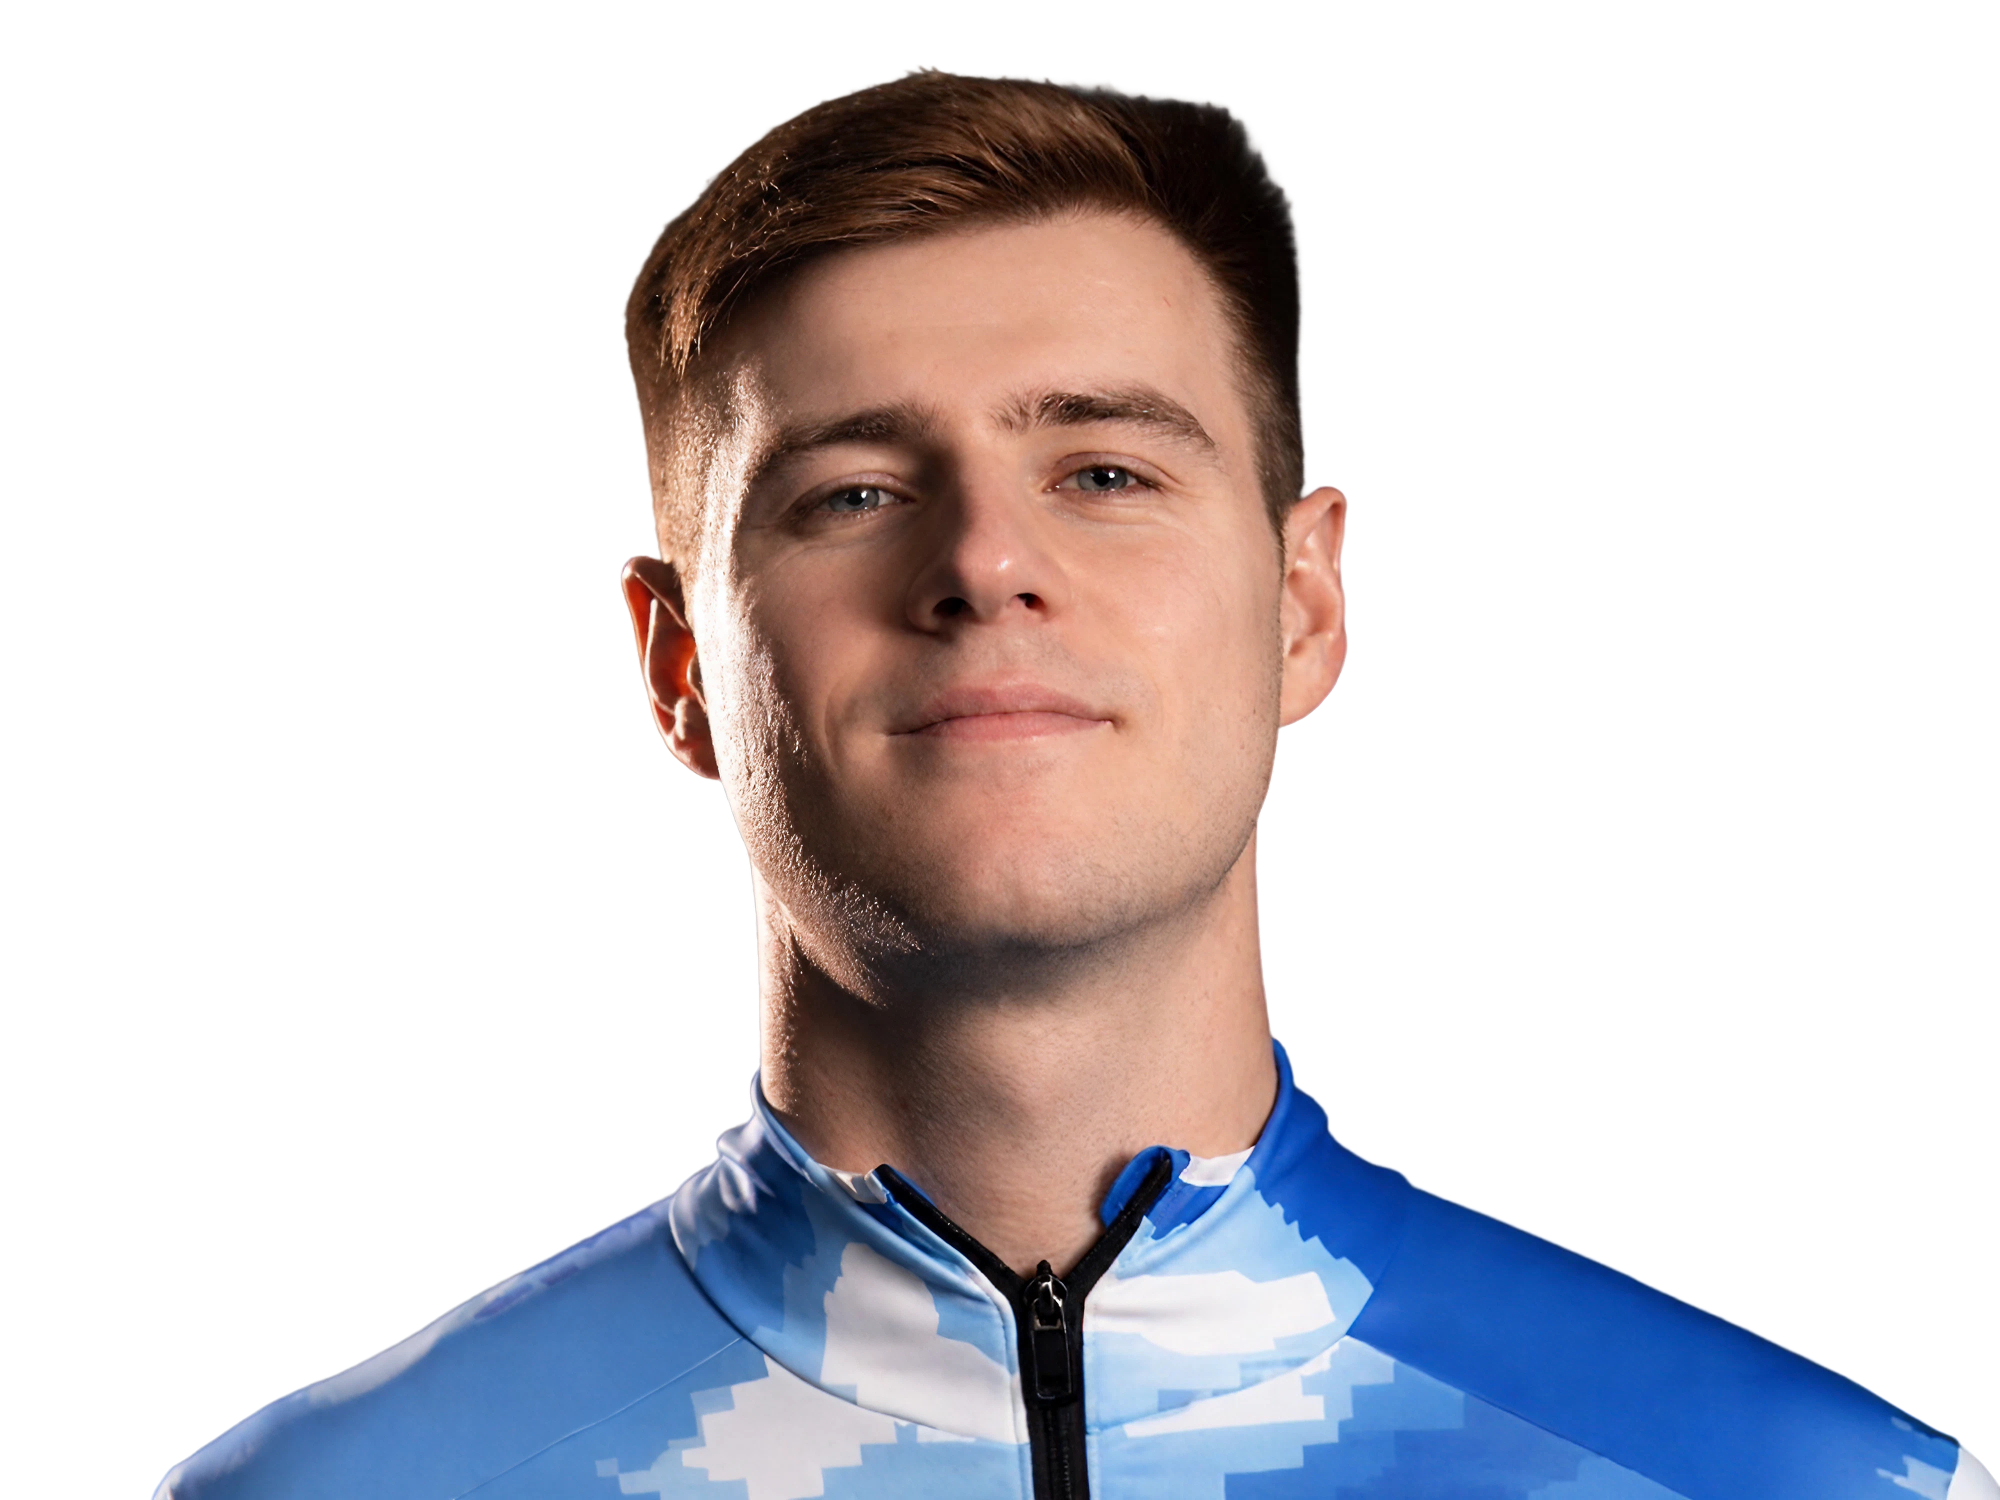
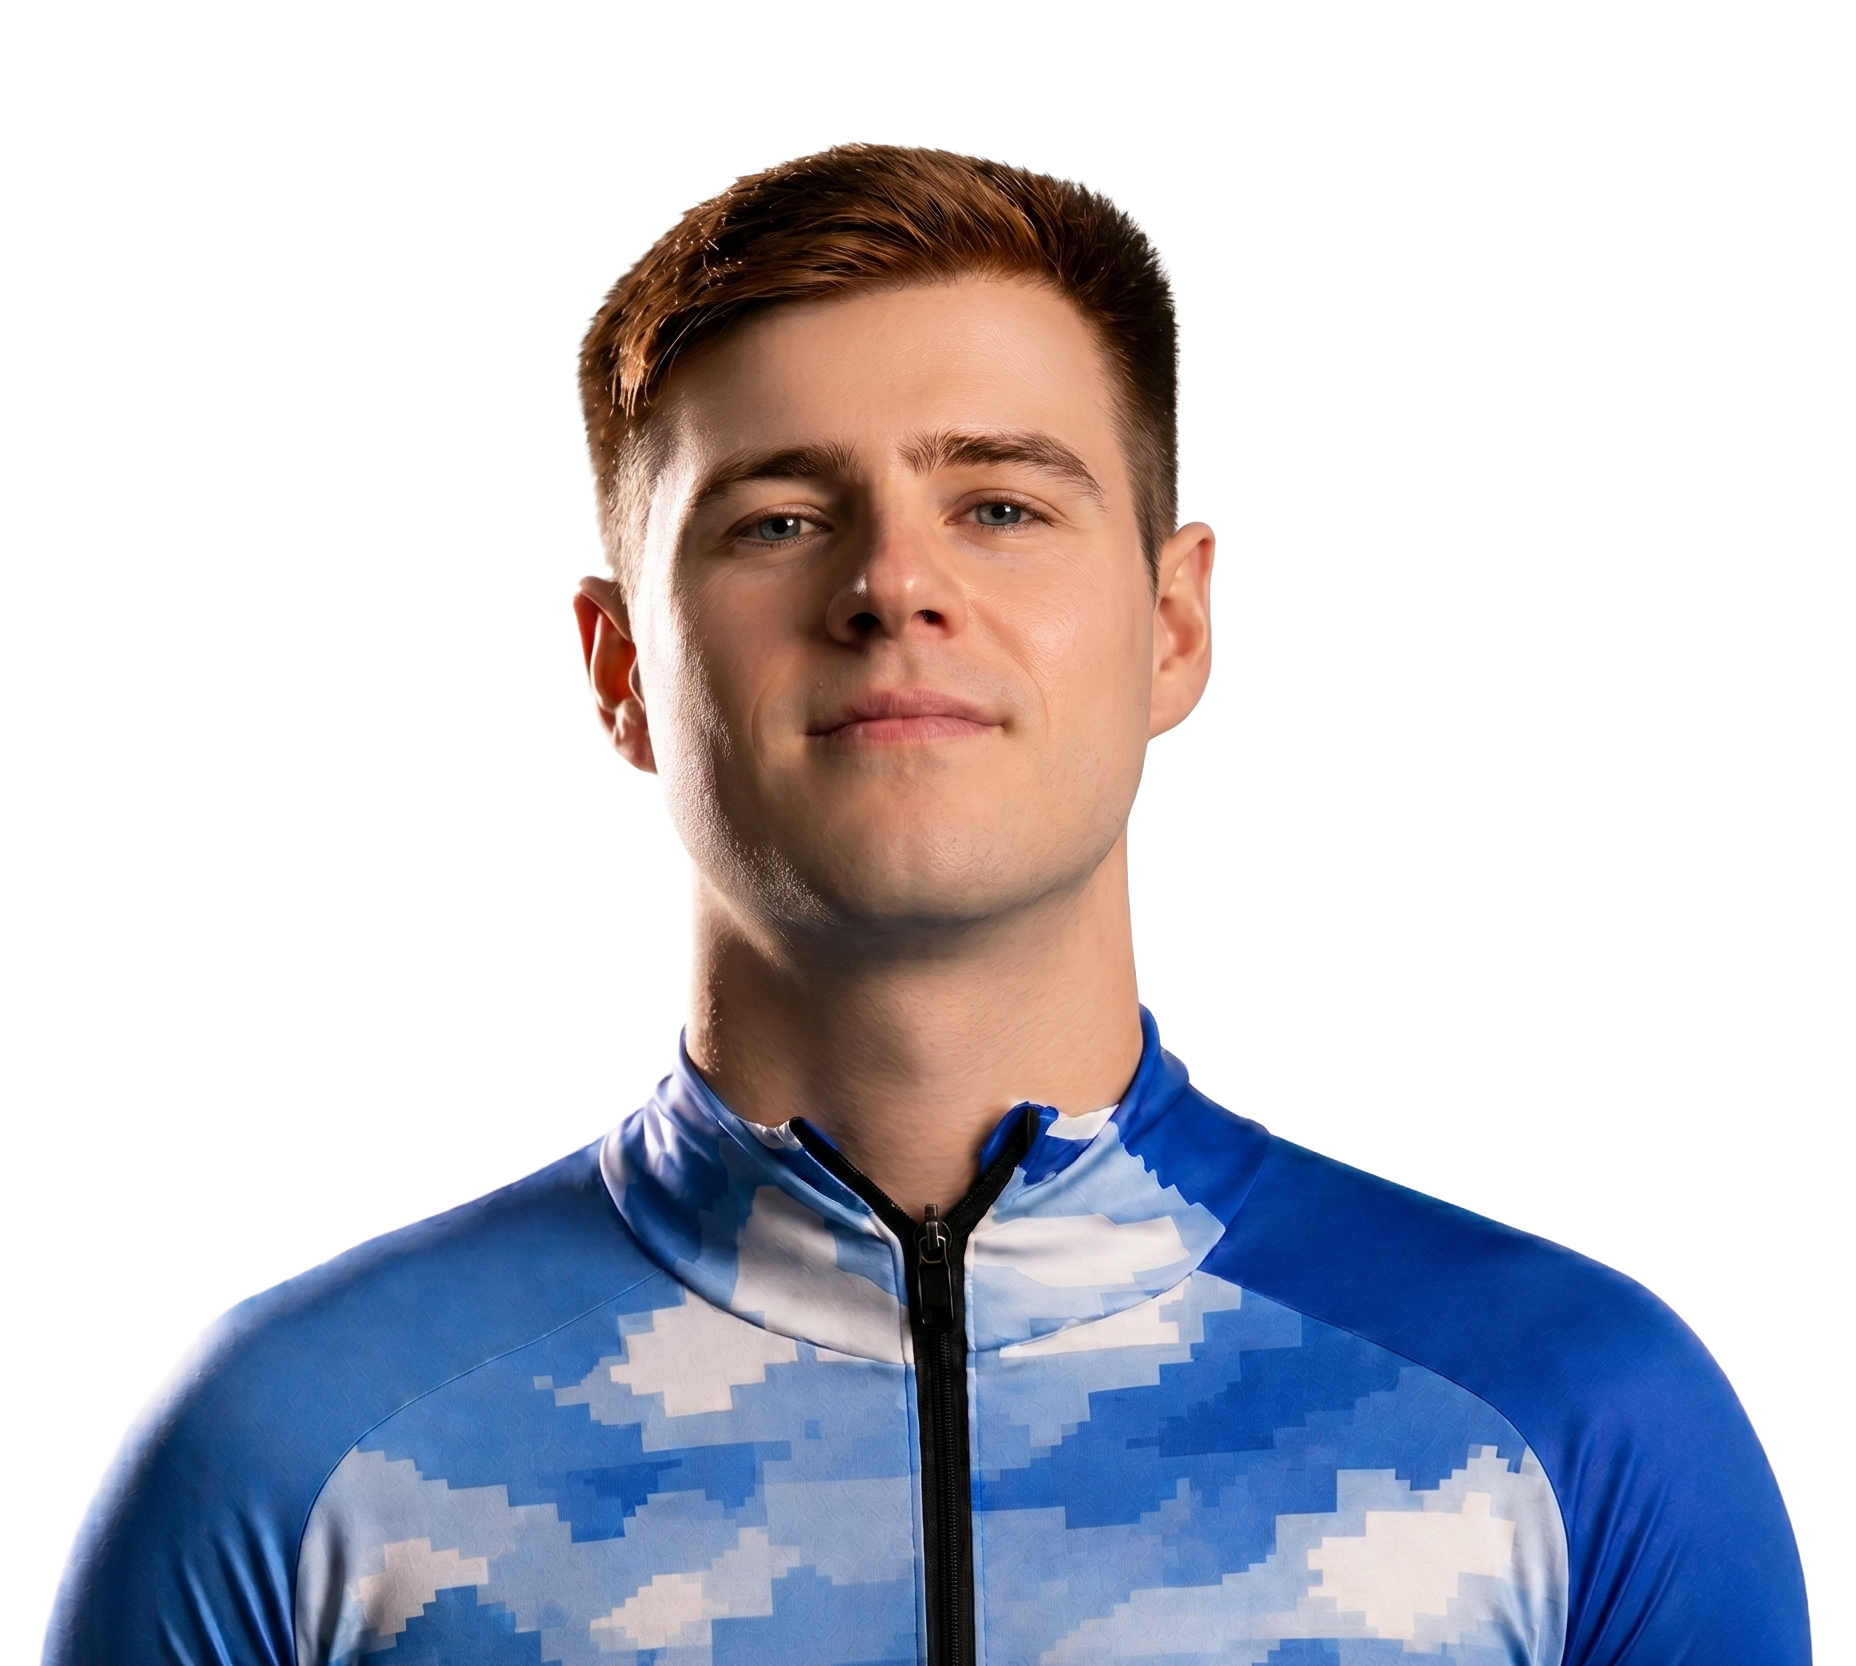
pagina caricamento, imm di vlad e about us

diff --git a/src/routes/about/+page.svelte b/src/routes/about/+page.svelte
@@ -27,11 +27,17 @@
   let activeIdx = $derived(Math.min(PARAS.length - 1, step))
 
   onMount(() => {
+    document.documentElement.classList.add('about-no-scrollbar')
+
     const onScroll = () => {
       step = Math.min(MAX_STEP, Math.floor(window.scrollY / STEP_PX))
     }
     window.addEventListener('scroll', onScroll, { passive: true })
-    return () => window.removeEventListener('scroll', onScroll)
+
+    return () => {
+      document.documentElement.classList.remove('about-no-scrollbar')
+      window.removeEventListener('scroll', onScroll)
+    }
   })
 </script>
 
@@ -72,9 +78,9 @@
       <!-- Paragrafi: si nascondono quando appare il team -->
       <div class="text-stack" class:hidden={showTeam}>
         {#each PARAS as para, i}
-          {@const dist = i - activeIdx}
-          {@const blurPx  = dist > 0 ? dist * 6 : 0}
-          {@const opacity  = dist === 0 ? 1 : dist > 0 ? Math.max(0.15, 1 - dist * 0.32) : 0.38}
+          {@const dist    = i - activeIdx}
+          {@const blurPx  = showTeam ? 48 : (dist > 0 ? dist * 6 : 0)}
+          {@const opacity = showTeam ? 0  : (dist === 0 ? 1 : dist > 0 ? Math.max(0.15, 1 - dist * 0.32) : 1)}
           <p class="body-text" style="filter: blur({blurPx}px); opacity: {opacity};">
             {para}
           </p>
@@ -189,10 +195,15 @@
   }
 
   /* Stack testi */
+  .text-stack {
+    display: flex;
+    flex-direction: column;
+    gap: 28px;
+    overflow: hidden;
+  }
+
   .text-stack.hidden {
-    opacity: 0;
     pointer-events: none;
-    transition: opacity 0.6s ease;
   }
 
   .team-block {
@@ -204,11 +215,12 @@
     padding-right: calc(10% - 44px);
     opacity: 0;
     pointer-events: none;
-    transition: opacity 0.6s ease;
+    transition: opacity 0.5s ease 0s;
   }
   .team-block.visible {
     opacity: 1;
     pointer-events: auto;
+    transition: opacity 0.5s ease 0.3s;
   }
 
   .team-list {
@@ -223,13 +235,6 @@
     line-height: 1.75;
   }
 
-  .text-stack {
-    display: flex;
-    flex-direction: column;
-    gap: 28px;
-    overflow: hidden;
-  }
-
   .body-text {
     font-family: var(--font-primary, monospace);
     font-size: clamp(13px, 1.25vw, 17px);
@@ -237,7 +242,7 @@
     line-height: 1.8;
     max-width: 500px;
     margin: 0;
-    transition: filter 0.75s ease, opacity 0.75s ease;
+    transition: filter 1.6s ease, opacity 0.35s ease;
   }
 
   /* ── Mobile ──────────────────────────────────── */
@@ -247,5 +252,14 @@
     .left-col { width: 100%; padding-left: 0; padding-bottom: 24px; flex: 0 0 auto; }
     .about-title { font-size: clamp(64px, 18vw, 110px); }
     .right-col { padding-right: 0; padding-top: 32px; }
+  }
+
+  /* Nasconde la scrollbar del browser solo su questa pagina */
+  :global(html.about-no-scrollbar) {
+    scrollbar-width: none; /* Firefox */
+    -ms-overflow-style: none; /* IE/Edge */
+  }
+  :global(html.about-no-scrollbar::-webkit-scrollbar) {
+    display: none; /* Chrome/Safari */
   }
 </style>

diff --git a/src/lib/components/LoadingScreen.svelte b/src/lib/components/LoadingScreen.svelte
@@ -76,14 +76,21 @@
 
         animId = requestAnimationFrame(frame)
       } else {
-        // Reset nativo prima di togliere il blocco, così la pagina parte da 0
+        // 1. Reset nativo mentre il blocco è ancora attivo
         window.scrollTo(0, 0)
-        document.documentElement.style.overflow = ''
-        document.body.style.overflow = ''
-        const lenis = getLenis()
-        lenis?.start()
+        // 2. Rimuovi il loader (Svelte aggiorna il DOM come microtask)
         visible = false
-        ondone?.()
+        // 3. Aspetta che il DOM sia aggiornato + un frame di rendering,
+        //    poi sblocca lo scroll: a quel punto la pagina è già a 0
+        //    e l'utente vede subito la SectionLanding
+        requestAnimationFrame(() => {
+          window.scrollTo(0, 0)
+          document.documentElement.style.overflow = ''
+          document.body.style.overflow = ''
+          const lenis = getLenis()
+          lenis?.start()
+          ondone?.()
+        })
       }
     }
 

diff --git a/src/lib/components/sections/SectionLanding.svelte b/src/lib/components/sections/SectionLanding.svelte
@@ -461,6 +461,7 @@
     height: 100%;
     object-fit: contain;
     object-position: bottom center;
+    transform: translateX(3%) translateY(12%) scale(1.1);
     display: block;
     user-select: none;
     -webkit-user-drag: none;
